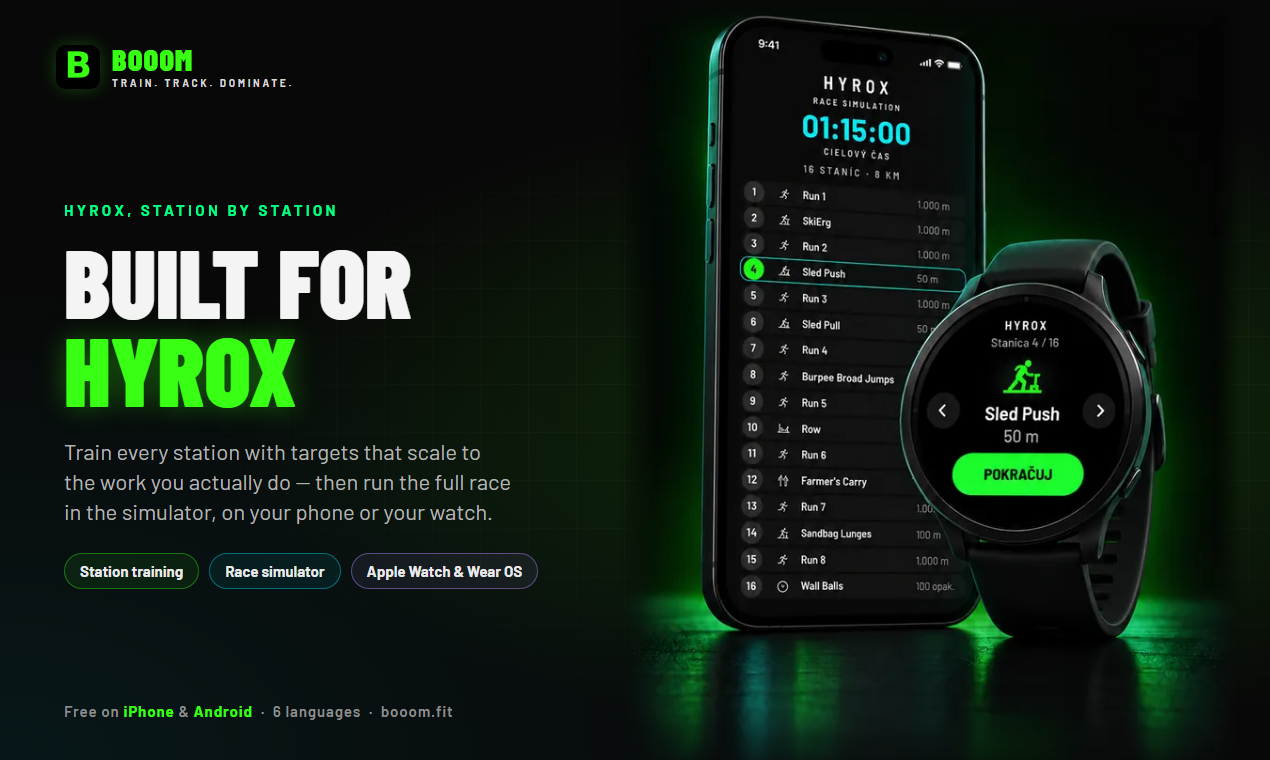
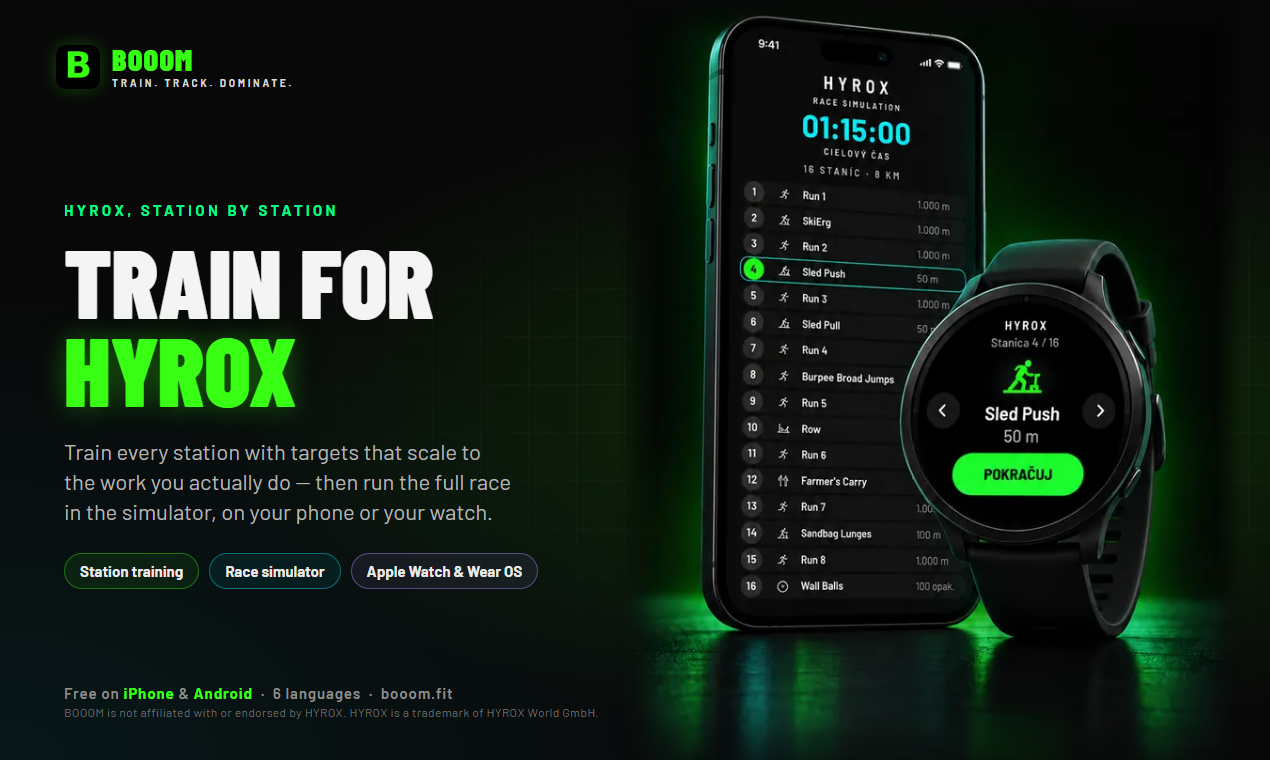
PH gallery: Train for Hyrox + not-affiliated note; Empire image without the overlapped phone

Changed region(s): [[0.0307, 0.3329, 0.3378, 0.4237], [0.0307, 0.9079, 0.3685, 0.9684]]

diff --git a/assets/ph/src/ph-3.html b/assets/ph/src/ph-3.html
@@ -1,0 +1,78 @@
+<!doctype html>
+<html lang="en">
+<head>
+<meta charset="utf-8">
+<meta name="viewport" content="width=1270, height=760">
+<title>BOOOM PH 3</title>
+<link rel="stylesheet" href="fonts.css">
+<style>
+:root { --W:1270px; --H:760px; }
+
+:root { --bg:#080808; --green:#39ff14; --mint:#00ff88; --cyan:#00e5ff; --purple:#b388ff; --text:#f4f4f4; --muted:#b4b4b4; }
+* { box-sizing:border-box; margin:0; padding:0; }
+html, body { background:var(--bg); }
+body { width:var(--W); height:var(--H); overflow:hidden; position:relative; color:var(--text); font-family:'Barlow', system-ui, sans-serif; -webkit-font-smoothing:antialiased; }
+.canvas { position:absolute; inset:0; overflow:hidden; background:
+  radial-gradient(ellipse at var(--gx,78%) var(--gy,45%), rgba(57,255,20,.16), transparent 55%),
+  radial-gradient(ellipse at 0% 100%, rgba(0,229,255,.07), transparent 45%),
+  var(--bg); }
+.grid { position:absolute; inset:0; background-image:linear-gradient(rgba(255,255,255,.028) 1px, transparent 1px), linear-gradient(90deg, rgba(255,255,255,.028) 1px, transparent 1px); background-size:48px 48px; mask-image:radial-gradient(ellipse at 70% 50%, #000 20%, transparent 75%); }
+.logo { position:absolute; display:flex; align-items:center; gap:12px; z-index:5; }
+.logo img { display:block; border-radius:22%; box-shadow:0 0 18px rgba(57,255,20,.25); }
+.logo span { font-family:'Barlow Condensed'; font-weight:900; color:var(--green); letter-spacing:.04em; line-height:1; }
+.logo small { display:block; font-family:'Barlow'; font-weight:700; color:#d8d8d8; letter-spacing:.28em; text-transform:uppercase; margin-top:3px; }
+h1 { font-family:'Barlow Condensed'; font-weight:900; text-transform:uppercase; line-height:.92; letter-spacing:-.005em; }
+h1 em { font-style:normal; color:var(--green); text-shadow:0 0 28px rgba(57,255,20,.35); }
+.kicker { font-family:'Barlow'; font-weight:700; text-transform:uppercase; color:var(--mint); }
+.sub { font-weight:400; color:var(--muted); text-wrap:balance; }
+.cta p { text-wrap:balance; }
+.sub b { color:#fff; font-weight:600; }
+.chips { display:flex; flex-wrap:wrap; }
+.chip { font-weight:700; color:#e9e9e9; border:1px solid rgba(57,255,20,.38); background:rgba(57,255,20,.07); border-radius:999px; white-space:nowrap; }
+.chip.c { border-color:rgba(0,229,255,.4); background:rgba(0,229,255,.07); }
+.chip.p { border-color:rgba(179,136,255,.45); background:rgba(179,136,255,.08); }
+.shot { position:absolute; overflow:hidden; z-index:1; }
+.shot img { position:absolute; display:block; }
+.fade { mask-image:linear-gradient(to bottom, transparent 0, #000 var(--ft,10%), #000 var(--fb,88%), transparent 100%), linear-gradient(to right, transparent 0, #000 var(--fl,10%), #000 var(--fr,92%), transparent 100%); mask-composite:intersect; }
+.art { position:absolute; display:block; z-index:2; filter:drop-shadow(0 18px 40px rgba(0,0,0,.7)); }
+
+
+.logo { left:56px; top:44px; }
+.logo img { width:44px; height:44px; }
+.logo span { font-size:30px; }
+.logo small { font-size:10px; }
+.text { position:absolute; left:64px; top:0; bottom:0; width:var(--tw,560px); display:flex; flex-direction:column; justify-content:center; z-index:4; padding-top:30px; }
+.kicker { font-size:15px; letter-spacing:.22em; margin-bottom:18px; }
+h1 { font-size:var(--hs,80px); margin-bottom:22px; }
+.sub { font-size:22px; line-height:1.38; margin-bottom:26px; max-width:var(--sw,540px); }
+.chips { gap:10px; max-width:var(--cw,560px); }
+.chip { font-size:15px; padding:8px 15px; }
+.foot { position:absolute; left:64px; bottom:40px; font-size:15px; font-weight:600; color:#8f8f8f; letter-spacing:.06em; z-index:4; }
+.foot b { color:var(--green); font-weight:700; }
+:root{--gx:74%;--gy:55%;--hs:96px;}
+</style>
+</head>
+<body>
+<div class="canvas"><div class="grid"></div>
+<div class="logo"><img src="img/icon-512.png" alt=""><div><span>BOOOM</span><small>Train. Track. Dominate.</small></div></div>
+<div class="text">
+  <div class="kicker">Hyrox, station by station</div>
+  <h1>Train for<br><em>Hyrox</em></h1>
+  <p class="sub">Train every station with targets that scale to the work you actually do — then run the full race in the simulator, on your phone or your watch.</p>
+  <div class="chips"><span class="chip">Station training</span><span class="chip c">Race simulator</span><span class="chip p">Apple Watch &amp; Wear OS</span></div>
+</div>
+<div class="shot fade" data-crop="40 430 660 849" data-w="620" style="left:620px;top:-6px;--ft:5%;--fb:90%;--fl:6%;--fr:96%"><img src="img/03-hyrox-simulacia.webp" alt=""></div>
+<div class="foot">Free on <b>iPhone</b> &amp; <b>Android</b> &nbsp;·&nbsp; 6 languages &nbsp;·&nbsp; booom.fit<br><span style="font-size:12px;color:#6a6a6a;font-weight:500;letter-spacing:.03em">BOOOM is not affiliated with or endorsed by HYROX. HYROX is a trademark of HYROX World GmbH.</span></div>
+</div>
+
+<script>
+document.querySelectorAll('.shot').forEach(el => {
+  const [x, y, w, h] = el.dataset.crop.split(' ').map(Number)
+  const W = parseFloat(el.dataset.w), s = W / w
+  el.style.width = W + 'px'; el.style.height = (h * s) + 'px'
+  const img = el.querySelector('img')
+  img.style.width = (720 * s) + 'px'; img.style.left = (-x * s) + 'px'; img.style.top = (-y * s) + 'px'
+})
+</script>
+</body>
+</html>

diff --git a/assets/ph/src/ph-4.html b/assets/ph/src/ph-4.html
@@ -1,0 +1,79 @@
+<!doctype html>
+<html lang="en">
+<head>
+<meta charset="utf-8">
+<meta name="viewport" content="width=1270, height=760">
+<title>BOOOM PH 4</title>
+<link rel="stylesheet" href="fonts.css">
+<style>
+:root { --W:1270px; --H:760px; }
+
+:root { --bg:#080808; --green:#39ff14; --mint:#00ff88; --cyan:#00e5ff; --purple:#b388ff; --text:#f4f4f4; --muted:#b4b4b4; }
+* { box-sizing:border-box; margin:0; padding:0; }
+html, body { background:var(--bg); }
+body { width:var(--W); height:var(--H); overflow:hidden; position:relative; color:var(--text); font-family:'Barlow', system-ui, sans-serif; -webkit-font-smoothing:antialiased; }
+.canvas { position:absolute; inset:0; overflow:hidden; background:
+  radial-gradient(ellipse at var(--gx,78%) var(--gy,45%), rgba(57,255,20,.16), transparent 55%),
+  radial-gradient(ellipse at 0% 100%, rgba(0,229,255,.07), transparent 45%),
+  var(--bg); }
+.grid { position:absolute; inset:0; background-image:linear-gradient(rgba(255,255,255,.028) 1px, transparent 1px), linear-gradient(90deg, rgba(255,255,255,.028) 1px, transparent 1px); background-size:48px 48px; mask-image:radial-gradient(ellipse at 70% 50%, #000 20%, transparent 75%); }
+.logo { position:absolute; display:flex; align-items:center; gap:12px; z-index:5; }
+.logo img { display:block; border-radius:22%; box-shadow:0 0 18px rgba(57,255,20,.25); }
+.logo span { font-family:'Barlow Condensed'; font-weight:900; color:var(--green); letter-spacing:.04em; line-height:1; }
+.logo small { display:block; font-family:'Barlow'; font-weight:700; color:#d8d8d8; letter-spacing:.28em; text-transform:uppercase; margin-top:3px; }
+h1 { font-family:'Barlow Condensed'; font-weight:900; text-transform:uppercase; line-height:.92; letter-spacing:-.005em; }
+h1 em { font-style:normal; color:var(--green); text-shadow:0 0 28px rgba(57,255,20,.35); }
+.kicker { font-family:'Barlow'; font-weight:700; text-transform:uppercase; color:var(--mint); }
+.sub { font-weight:400; color:var(--muted); text-wrap:balance; }
+.cta p { text-wrap:balance; }
+.sub b { color:#fff; font-weight:600; }
+.chips { display:flex; flex-wrap:wrap; }
+.chip { font-weight:700; color:#e9e9e9; border:1px solid rgba(57,255,20,.38); background:rgba(57,255,20,.07); border-radius:999px; white-space:nowrap; }
+.chip.c { border-color:rgba(0,229,255,.4); background:rgba(0,229,255,.07); }
+.chip.p { border-color:rgba(179,136,255,.45); background:rgba(179,136,255,.08); }
+.shot { position:absolute; overflow:hidden; z-index:1; }
+.shot img { position:absolute; display:block; }
+.fade { mask-image:linear-gradient(to bottom, transparent 0, #000 var(--ft,10%), #000 var(--fb,88%), transparent 100%), linear-gradient(to right, transparent 0, #000 var(--fl,10%), #000 var(--fr,92%), transparent 100%); mask-composite:intersect; }
+.art { position:absolute; display:block; z-index:2; filter:drop-shadow(0 18px 40px rgba(0,0,0,.7)); }
+
+
+.logo { left:56px; top:44px; }
+.logo img { width:44px; height:44px; }
+.logo span { font-size:30px; }
+.logo small { font-size:10px; }
+.text { position:absolute; left:64px; top:0; bottom:0; width:var(--tw,560px); display:flex; flex-direction:column; justify-content:center; z-index:4; padding-top:30px; }
+.kicker { font-size:15px; letter-spacing:.22em; margin-bottom:18px; }
+h1 { font-size:var(--hs,80px); margin-bottom:22px; }
+.sub { font-size:22px; line-height:1.38; margin-bottom:26px; max-width:var(--sw,540px); }
+.chips { gap:10px; max-width:var(--cw,560px); }
+.chip { font-size:15px; padding:8px 15px; }
+.foot { position:absolute; left:64px; bottom:40px; font-size:15px; font-weight:600; color:#8f8f8f; letter-spacing:.06em; z-index:4; }
+.foot b { color:var(--green); font-weight:700; }
+:root{--gx:76%;--gy:45%;--hs:74px;--cw:600px;}
+</style>
+</head>
+<body>
+<div class="canvas"><div class="grid"></div>
+<div class="logo"><img src="img/icon-512.png" alt=""><div><span>BOOOM</span><small>Train. Track. Dominate.</small></div></div>
+<div class="text">
+  <div class="kicker">Gamified, for real</div>
+  <h1>Train. Earn XP.<br><em>Build your<br>empire.</em></h1>
+  <p class="sub">Every workout earns XP, ranks and a place in the weekly league — and powers <b>BOOOM Empire</b>, a strategy game built on your training.</p>
+  <div class="chips"><span class="chip">XP &amp; ranks</span><span class="chip">Weekly league</span><span class="chip p">BOOOM Empire</span><span class="chip c">Apple Watch &amp; Wear OS</span></div>
+</div>
+<div style="position:absolute;left:700px;top:560px;width:520px;height:90px;border-radius:50%;background:radial-gradient(ellipse, rgba(57,255,20,.35), transparent 70%);filter:blur(10px);z-index:1"></div>
+<img class="art" src="img/empire-tier-6.webp" alt="" style="width:560px;left:680px;top:110px">
+<div class="foot">Free on <b>iPhone</b> &amp; <b>Android</b> &nbsp;·&nbsp; 6 languages &nbsp;·&nbsp; booom.fit</div>
+</div>
+
+<script>
+document.querySelectorAll('.shot').forEach(el => {
+  const [x, y, w, h] = el.dataset.crop.split(' ').map(Number)
+  const W = parseFloat(el.dataset.w), s = W / w
+  el.style.width = W + 'px'; el.style.height = (h * s) + 'px'
+  const img = el.querySelector('img')
+  img.style.width = (720 * s) + 'px'; img.style.left = (-x * s) + 'px'; img.style.top = (-y * s) + 'px'
+})
+</script>
+</body>
+</html>
